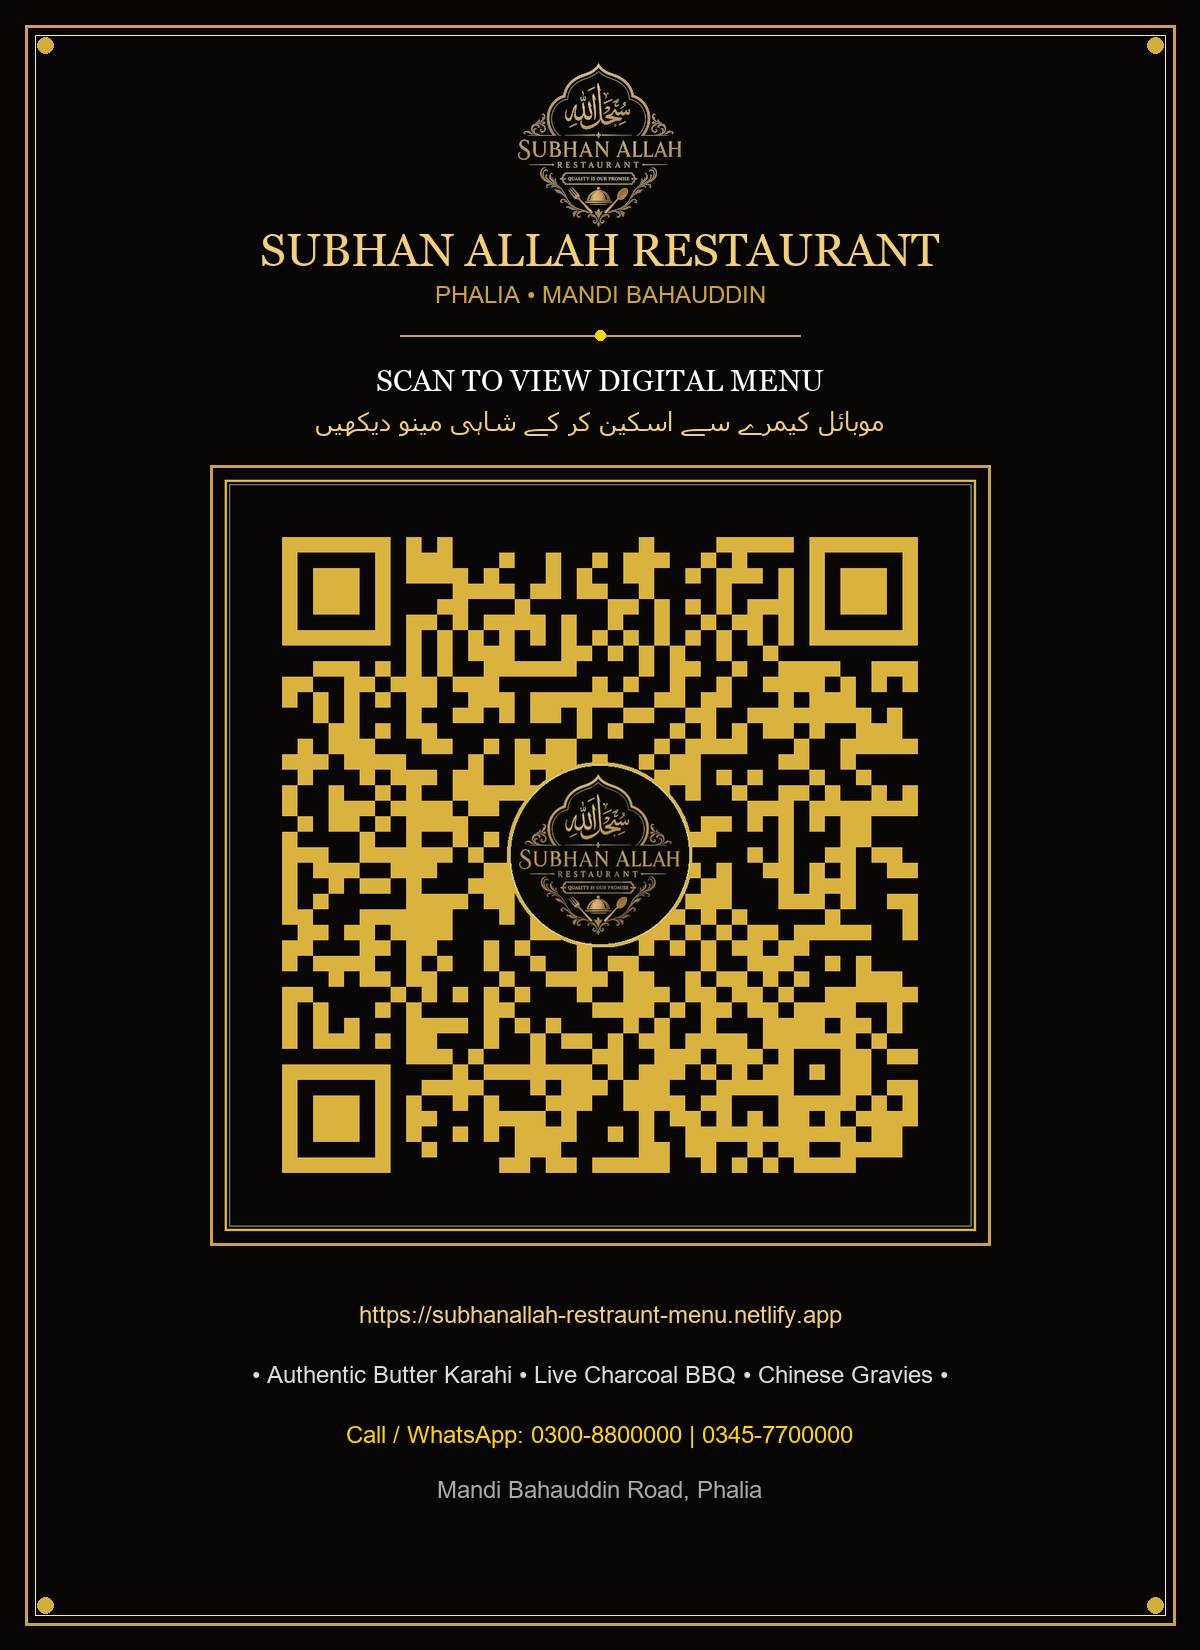
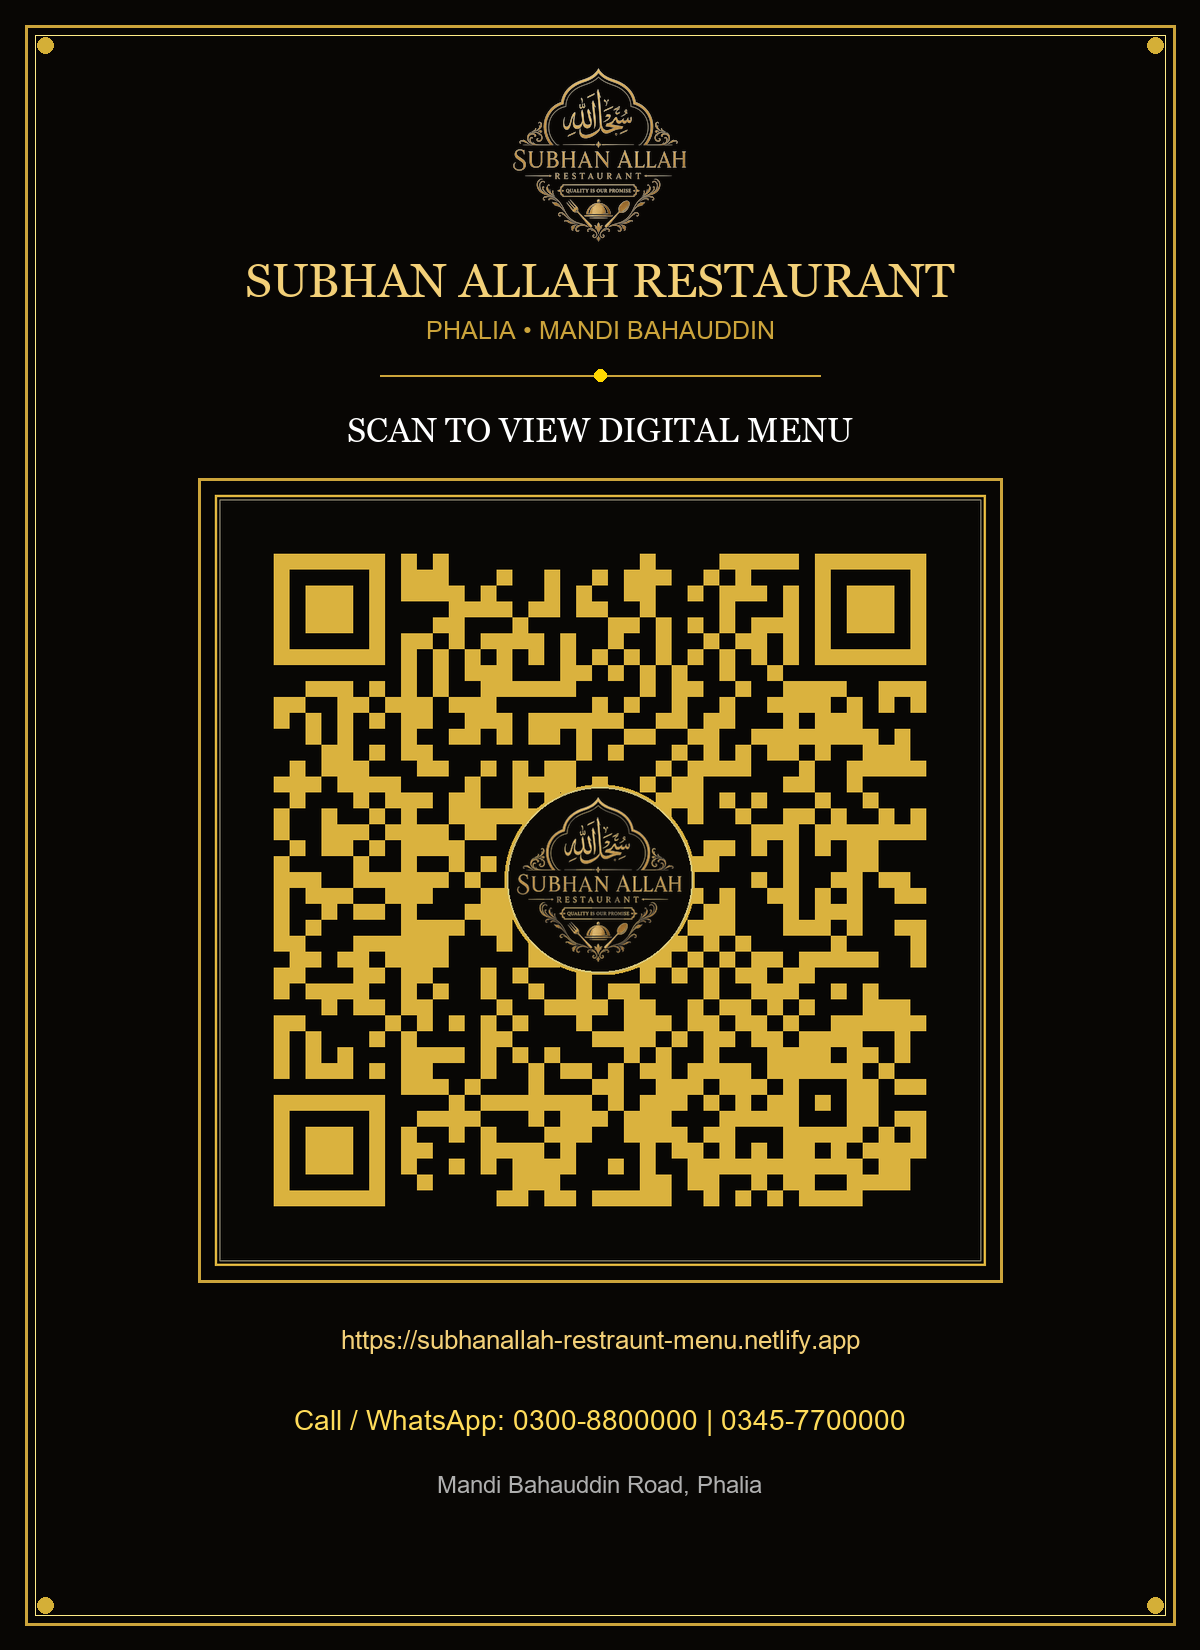
Update table stand QR cards to clean minimalist layout

Changed region(s): [[0.1542, 0.0309, 0.8325, 0.9273]]

diff --git a/generate_qr.py b/generate_qr.py
@@ -2,36 +2,38 @@ import qrcode
 from PIL import Image, ImageDraw, ImageFont
 import cv2
 import numpy as np
-import arabic_reshaper
-from bidi.algorithm import get_display
 
 URL = "https://subhanallah-restraunt-menu.netlify.app"
 
-def reshape_urdu(text):
-    reshaped = arabic_reshaper.reshape(text)
-    return get_display(reshaped)
+def get_font(name, size):
+    for path in [name, f"C:/Windows/Fonts/{name}", f"C:/Windows/Fonts/{name.lower()}", "arial.ttf"]:
+        try:
+            return ImageFont.truetype(path, size)
+        except:
+            continue
+    return ImageFont.load_default()
 
 def generate_qr_assets():
-    print(f"Generating verified QR Code suite for: {URL}")
+    print(f"Generating QR Code suite for: {URL}")
     
-    # -------------------------------------------------------------
-    # 1. LUXURY BLACK & GOLD QR CODE (Midnight Black Background + Gold Modules)
-    # -------------------------------------------------------------
-    qr_dark_maker = qrcode.QRCode(
+    # Base QR Code with 30% High Error Correction
+    qr_maker = qrcode.QRCode(
         version=None,
         error_correction=qrcode.constants.ERROR_CORRECT_H,
         box_size=20,
         border=4,
     )
-    qr_dark_maker.add_data(URL)
-    qr_dark_maker.make(fit=True)
+    qr_maker.add_data(URL)
+    qr_maker.make(fit=True)
     
-    qr_dark = qr_dark_maker.make_image(
+    # -------------------------------------------------------------
+    # 1. LUXURY BLACK & GOLD QR CODE
+    # -------------------------------------------------------------
+    qr_dark = qr_maker.make_image(
         fill_color=(218, 178, 62),   # Radiant Royal Gold
         back_color=(8, 7, 5)          # Deep Midnight Obsidian
     ).convert("RGBA")
     
-    # Add Logo Badge in Center
     logo = Image.open("logo.png").convert("RGBA")
     qr_w, qr_h = qr_dark.size
     logo_size = int(qr_w * 0.22)
@@ -40,8 +42,6 @@ def generate_qr_assets():
     badge_size = logo_size + 24
     badge = Image.new("RGBA", (badge_size, badge_size), (0, 0, 0, 0))
     b_draw = ImageDraw.Draw(badge)
-    
-    # Dual Gold Border Shield
     b_draw.ellipse([0, 0, badge_size, badge_size], fill=(10, 8, 5, 255), outline=(218, 178, 62, 255), width=4)
     b_draw.ellipse([3, 3, badge_size - 3, badge_size - 3], outline=(255, 235, 140, 220), width=2)
     
@@ -51,27 +51,17 @@ def generate_qr_assets():
     badge_pos = ((qr_w - badge_size) // 2, (qr_h - badge_size) // 2)
     qr_dark.paste(badge, badge_pos, badge)
     
-    # Decorative Outer Frame
     draw_dark = ImageDraw.Draw(qr_dark)
     draw_dark.rectangle([6, 6, qr_w - 6, qr_h - 6], outline=(218, 178, 62, 255), width=3)
     draw_dark.rectangle([12, 12, qr_w - 12, qr_h - 12], outline=(255, 235, 140, 100), width=1)
     
     qr_dark.save("menu_qr_code.png", "PNG", optimize=True)
-    print(f"Saved menu_qr_code.png ({qr_dark.size})")
+    print(f"Saved menu_qr_code.png")
 
     # -------------------------------------------------------------
-    # 2. IMPERIAL GOLD QR CODE (Champagne Gold Base + Obsidian Modules)
+    # 2. IMPERIAL GOLD QR CODE
     # -------------------------------------------------------------
-    qr_gold_maker = qrcode.QRCode(
-        version=None,
-        error_correction=qrcode.constants.ERROR_CORRECT_H,
-        box_size=20,
-        border=4,
-    )
-    qr_gold_maker.add_data(URL)
-    qr_gold_maker.make(fit=True)
-    
-    qr_gold = qr_gold_maker.make_image(
+    qr_gold = qr_maker.make_image(
         fill_color=(12, 10, 7),        # Obsidian Black
         back_color=(246, 222, 142)     # Champagne Gold
     ).convert("RGBA")
@@ -81,23 +71,19 @@ def generate_qr_assets():
     draw_gold.rectangle([6, 6, qr_w - 6, qr_h - 6], outline=(12, 10, 7, 255), width=3)
     
     qr_gold.save("menu_qr_code_gold.png", "PNG", optimize=True)
-    print(f"Saved menu_qr_code_gold.png ({qr_gold.size})")
+    print(f"Saved menu_qr_code_gold.png")
 
     # -------------------------------------------------------------
-    # 3. VERIFY SCANS
+    # 3. PRINTABLE TABLE CARD 1: MIDNIGHT BLACK & GOLD EDITION
     # -------------------------------------------------------------
-    det = cv2.QRCodeDetector()
-    res_gold, _, _ = det.detectAndDecode(cv2.imread("menu_qr_code_gold.png"))
-    res_dark_inv, _, _ = det.detectAndDecode(255 - cv2.imread("menu_qr_code.png"))
-    print(f">> Verification Imperial Gold: '{res_gold}'")
-    print(f">> Verification Black & Gold (Inverted): '{res_dark_inv}'")
+    create_card_dark(qr_dark)
 
     # -------------------------------------------------------------
-    # 4. PRINTABLE TABLE DISPLAY CARD (1200x1650 Luxury Table Tent / Flyer)
+    # 4. PRINTABLE TABLE CARD 2: IMPERIAL GOLD EDITION
     # -------------------------------------------------------------
-    create_table_card(qr_dark)
+    create_card_gold(qr_gold)
 
-def create_table_card(qr_img):
+def create_card_dark(qr_img):
     card_w = 1200
     card_h = 1650
     card = Image.new("RGBA", (card_w, card_h), (8, 6, 4, 255))
@@ -113,56 +99,93 @@ def create_table_card(qr_img):
     
     # Header logo at top
     header_logo = Image.open("logo.png").convert("RGBA")
-    header_logo = header_logo.resize((170, 170), Image.Resampling.LANCZOS)
-    card.paste(header_logo, ((card_w - 170) // 2, 60), header_logo)
+    header_logo = header_logo.resize((180, 180), Image.Resampling.LANCZOS)
+    card.paste(header_logo, ((card_w - 180) // 2, 65), header_logo)
     
-    # Fonts
-    def get_font(name, size):
-        for path in [name, f"C:/Windows/Fonts/{name}", f"C:/Windows/Fonts/{name.lower()}", "arial.ttf"]:
-            try:
-                return ImageFont.truetype(path, size)
-            except:
-                continue
-        return ImageFont.load_default()
+    font_title = get_font("georgia.ttf", 48)
+    font_sub = get_font("arial.ttf", 25)
+    font_tag = get_font("georgia.ttf", 34)
+    font_url = get_font("arial.ttf", 26)
+    font_contact = get_font("arial.ttf", 28)
+    font_addr = get_font("arial.ttf", 24)
         
-    font_title = get_font("georgia.ttf", 46)
-    font_sub = get_font("arial.ttf", 24)
-    font_urdu = get_font("tahoma.ttf", 26)
-    font_tag = get_font("georgia.ttf", 30)
-    font_url = get_font("arial.ttf", 24)
-        
-    draw.text((card_w // 2, 250), "SUBHAN ALLAH RESTAURANT", fill=(243, 208, 120), font=font_title, anchor="mm")
-    draw.text((card_w // 2, 295), "PHALIA • MANDI BAHAUDDIN", fill=(204, 164, 59), font=font_sub, anchor="mm")
+    draw.text((card_w // 2, 280), "SUBHAN ALLAH RESTAURANT", fill=(243, 208, 120), font=font_title, anchor="mm")
+    draw.text((card_w // 2, 330), "PHALIA • MANDI BAHAUDDIN", fill=(204, 164, 59), font=font_sub, anchor="mm")
     
     # Decorative line
-    draw.line([(card_w // 2 - 200, 335), (card_w // 2 + 200, 335)], fill=(204, 164, 59), width=2)
-    draw.ellipse([card_w // 2 - 5, 335 - 5, card_w // 2 + 5, 335 + 5], fill=(255, 215, 0))
+    draw.line([(card_w // 2 - 220, 375), (card_w // 2 + 220, 375)], fill=(204, 164, 59), width=2)
+    draw.ellipse([card_w // 2 - 6, 375 - 6, card_w // 2 + 6, 375 + 6], fill=(255, 215, 0))
     
-    draw.text((card_w // 2, 380), "SCAN TO VIEW DIGITAL MENU", fill=(255, 255, 255), font=font_tag, anchor="mm")
-    
-    # Reshaped Urdu subtitle
-    urdu_sub = reshape_urdu("موبائل کیمرے سے اسکین کر کے شاہی مینو دیکھیں")
-    draw.text((card_w // 2, 420), urdu_sub, fill=(243, 208, 120), font=font_urdu, anchor="mm")
+    draw.text((card_w // 2, 430), "SCAN TO VIEW DIGITAL MENU", fill=(255, 255, 255), font=font_tag, anchor="mm")
     
     # Place QR Code
-    qr_display_size = 760
+    qr_display_size = 780
     qr_resized = qr_img.resize((qr_display_size, qr_display_size), Image.Resampling.LANCZOS)
-    
     qr_x = (card_w - qr_display_size) // 2
-    qr_y = 475
+    qr_y = 490
     
-    # Outer gold frame with glowing shadow
-    draw.rectangle([qr_x - 10, qr_y - 10, qr_x + qr_display_size + 10, qr_y + qr_display_size + 10], outline=(204, 164, 59), width=3)
+    draw.rectangle([qr_x - 12, qr_y - 12, qr_x + qr_display_size + 12, qr_y + qr_display_size + 12], outline=(204, 164, 59), width=3)
     card.paste(qr_resized, (qr_x, qr_y), qr_resized)
     
-    # Bottom details
-    draw.text((card_w // 2, 1315), "https://subhanallah-restraunt-menu.netlify.app", fill=(243, 208, 120), font=font_url, anchor="mm")
-    draw.text((card_w // 2, 1375), "• Authentic Butter Karahi • Live Charcoal BBQ • Chinese Gravies •", fill=(220, 220, 220), font=font_sub, anchor="mm")
-    draw.text((card_w // 2, 1435), "Call / WhatsApp: 0300-8800000 | 0345-7700000", fill=(255, 215, 0), font=font_sub, anchor="mm")
-    draw.text((card_w // 2, 1490), "Mandi Bahauddin Road, Phalia", fill=(170, 170, 170), font=font_sub, anchor="mm")
+    # Bottom info
+    draw.text((card_w // 2, 1340), "https://subhanallah-restraunt-menu.netlify.app", fill=(243, 208, 120), font=font_url, anchor="mm")
+    draw.text((card_w // 2, 1420), "Call / WhatsApp: 0300-8800000 | 0345-7700000", fill=(255, 220, 90), font=font_contact, anchor="mm")
+    draw.text((card_w // 2, 1485), "Mandi Bahauddin Road, Phalia", fill=(175, 175, 175), font=font_addr, anchor="mm")
     
     card.save("subhan_allah_menu_qr_card.png", "PNG", optimize=True)
     print("Saved subhan_allah_menu_qr_card.png")
+
+def create_card_gold(qr_img):
+    card_w = 1200
+    card_h = 1650
+    card = Image.new("RGBA", (card_w, card_h), (246, 225, 155, 255))
+    draw = ImageDraw.Draw(card)
+    
+    # Dual Dark Luxury Border
+    draw.rectangle([25, 25, card_w - 25, card_h - 25], outline=(14, 11, 7, 255), width=3)
+    draw.rectangle([35, 35, card_w - 35, card_h - 35], outline=(180, 135, 35, 180), width=1)
+    
+    # Corner Accents
+    for (cx, cy) in [(45, 45), (card_w - 45, 45), (45, card_h - 45), (card_w - 45, card_h - 45)]:
+        draw.ellipse([cx - 8, cy - 8, cx + 8, cy + 8], fill=(14, 11, 7, 255))
+    
+    # Header logo at top
+    header_logo = Image.open("logo.png").convert("RGBA")
+    header_logo = header_logo.resize((180, 180), Image.Resampling.LANCZOS)
+    card.paste(header_logo, ((card_w - 180) // 2, 65), header_logo)
+    
+    font_title = get_font("georgia.ttf", 48)
+    font_sub = get_font("arial.ttf", 25)
+    font_tag = get_font("georgia.ttf", 34)
+    font_url = get_font("arial.ttf", 26)
+    font_contact = get_font("arial.ttf", 28)
+    font_addr = get_font("arial.ttf", 24)
+        
+    draw.text((card_w // 2, 280), "SUBHAN ALLAH RESTAURANT", fill=(14, 11, 7), font=font_title, anchor="mm")
+    draw.text((card_w // 2, 330), "PHALIA • MANDI BAHAUDDIN", fill=(120, 85, 20), font=font_sub, anchor="mm")
+    
+    # Decorative line
+    draw.line([(card_w // 2 - 220, 375), (card_w // 2 + 220, 375)], fill=(14, 11, 7), width=2)
+    draw.ellipse([card_w // 2 - 6, 375 - 6, card_w // 2 + 6, 375 + 6], fill=(180, 135, 35))
+    
+    draw.text((card_w // 2, 430), "SCAN TO VIEW DIGITAL MENU", fill=(14, 11, 7), font=font_tag, anchor="mm")
+    
+    # Place QR Code
+    qr_display_size = 780
+    qr_resized = qr_img.resize((qr_display_size, qr_display_size), Image.Resampling.LANCZOS)
+    qr_x = (card_w - qr_display_size) // 2
+    qr_y = 490
+    
+    draw.rectangle([qr_x - 12, qr_y - 12, qr_x + qr_display_size + 12, qr_y + qr_display_size + 12], outline=(14, 11, 7), width=3)
+    card.paste(qr_resized, (qr_x, qr_y), qr_resized)
+    
+    # Bottom info
+    draw.text((card_w // 2, 1340), "https://subhanallah-restraunt-menu.netlify.app", fill=(80, 55, 10), font=font_url, anchor="mm")
+    draw.text((card_w // 2, 1420), "Call / WhatsApp: 0300-8800000 | 0345-7700000", fill=(14, 11, 7), font=font_contact, anchor="mm")
+    draw.text((card_w // 2, 1485), "Mandi Bahauddin Road, Phalia", fill=(90, 70, 40), font=font_addr, anchor="mm")
+    
+    card.save("subhan_allah_menu_qr_card_gold.png", "PNG", optimize=True)
+    print("Saved subhan_allah_menu_qr_card_gold.png")
 
 if __name__ == "__main__":
     generate_qr_assets()
